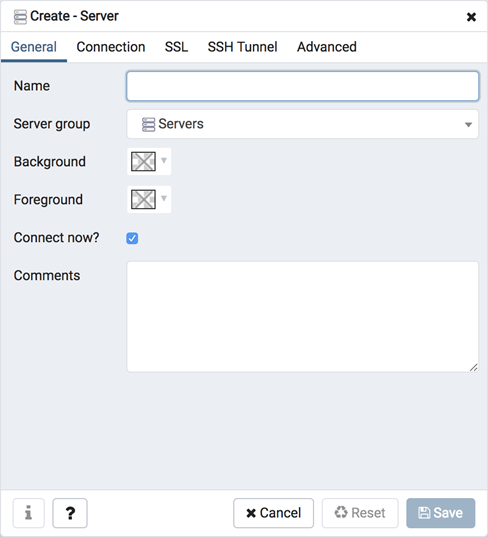
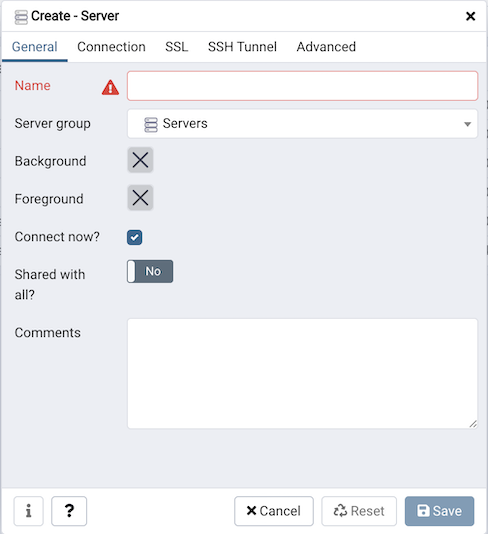
Added documentation for shared server support. Fixes #5792

diff --git a/docs/en_US/server_dialog.rst b/docs/en_US/server_dialog.rst
@@ -16,15 +16,31 @@ Use the fields in the *General* tab to identify the server:
 
 * Use the *Name* field to add a descriptive name for the server; the name
   specified will be displayed in the *Browser* tree control.
+
 * Use the drop-down list box in the *Server group* field to select the parent
   node for the server; the server will be displayed in the *Browser* tree
   control within the specified group.
+
 * Use the color-picker in the *Background* field to specify the background
   color for the server.
+
 * Use the color-picker in the *Foreground* field to specify the foreground
   color for the server.
+
 * If the *Connect now?* checkbox is checked, the client will attempt a
   connection to the server upon completion of the dialog; this is the default
+
+* If the *Shared with all?* switch is moved to *Yes* then that server can be
+  shared with all the other users. This option is available only to admin users. For more information on users see :ref:`User Management Dialog <user_management>`. The users can access the shared servers with some restritctions. The Users accessing the shared servers cannot do the following operations on the shared servers:
+
+    * Create a server
+    * Delete the server
+    * Rename the server
+    * Rename the group server
+    * Change of host, port, and maintenance database
+
+  Please note that once the server is shared, it's icon is changed in the browser tree.
+
 * Provide a comment about the server in the *Comments* field.
 
 Click the *Connection* tab to continue.

diff --git a/docs/en_US/release_notes_4_26.rst b/docs/en_US/release_notes_4_26.rst
@@ -20,6 +20,7 @@ Housekeeping
 | `Issue #5332 <https://redmine.postgresql.org/issues/5332>`_ -  Improve code coverage and API test cases for Columns and Constraints (Index, Foreign Key, Check, Exclusion).
 | `Issue #5344 <https://redmine.postgresql.org/issues/5344>`_ -  Improve code coverage and API test cases for Grant Wizard.
 | `Issue #5774 <https://redmine.postgresql.org/issues/5774>`_ -  Improve code coverage and API test cases for Tables.
+| `Issue #5792 <https://redmine.postgresql.org/issues/5792>`_ -  Added documentation for shared server support.
 
 Bug fixes
 *********

diff --git a/docs/en_US/preferences.rst b/docs/en_US/preferences.rst
@@ -49,6 +49,9 @@ Use the fields on the *Display* panel to specify general display preferences:
   the client will display the animated dialogues/notifications otherwise it
   will be unanimated.
 
+* When the *Hide shared server?* switch is set to *True*, the client will hide
+  all the shared servers from the browser tree.
+
 * Use the *Lock layout* field to lock the UI layout at different levels. This
   can also be changed from File menu on the :ref:`menu bar <menu_bar>`
 
